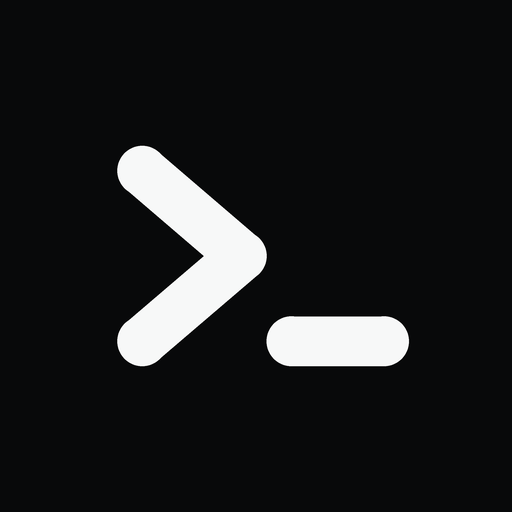
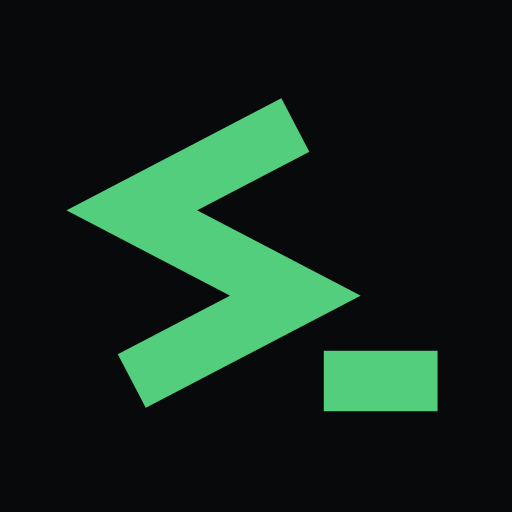
Play assets carry Solid Wedge, and the listing doc stops calling them blocked
agents-tracker-kb4q: docs/ops/play-assets held the retired chevron placeholder
while the launcher shipped Solid Wedge (72c844e) - the store listing and the
installed app would have shown two different marks. Both upload assets are now
byte-identical to the approved renders in docs/design/store-assets/. The
store-listing.md asset table said all three graphics were missing; the icon
and feature graphic are done, the emulator screenshot set exists, and the
paired-app screenshots stay tracked as agents-tracker-h4yg.

Claude-Session: https://claude.ai/code/session_015inSWCciRJgRG3nB7pwKRE

Changed region(s): [[0.125, 0.1875, 0.875, 0.8125]]

diff --git a/docs/legal/store-listing.md b/docs/legal/store-listing.md
@@ -67,16 +67,16 @@ up in the history.
 - Website: https://github.com/Nathandela/swarm
 - Privacy policy: https://github.com/Nathandela/swarm/blob/main/docs/legal/privacy-policy.md
 
-## Graphics still needed — NOT written, and blocking
+## Graphics — all present
 
-Play requires all of these before a listing can be saved. None exists yet.
+Play requires all of these before a listing can be saved.
 
 | Asset | Spec | Status |
 |---|---|---|
-| App icon | 512 x 512 PNG, 32-bit | **Blocked on the icon decision** — six candidates in `docs/design/icon-candidates/`, none chosen |
-| Feature graphic | 1024 x 500 PNG or JPEG | Not made. Can be generated from the chosen icon on the product ground |
-| Phone screenshots | 2 to 8, min 320 px, 16:9 or 9:16 | Not taken. Needs the app on a device or emulator |
+| App icon | 512 x 512 PNG, 32-bit | Done — Solid Wedge (the owner's chosen mark, commit 72c844e), `docs/ops/play-assets/play-store-icon-512.png` |
+| Feature graphic | 1024 x 500 PNG or JPEG | Done — Solid Wedge on the product ground, `docs/ops/play-assets/play-feature-graphic-1024x500.png` |
+| Phone screenshots | 2 to 8, min 320 px, 16:9 or 9:16 | Emulator set exists (`docs/design/store-assets/screenshots/`: pairing, scanner, first run, plus 7in/10in tablet). Paired-app screenshots (session list, machines, activity) tracked as agents-tracker-h4yg |
 
-The screenshots are worth taking by hand on the real handset rather than generating: the pairing
-screen and the session list are the two that say what this app is, and a screenshot of an empty
-inbox says nothing.
+The paired-app screenshots are worth taking by hand on the real handset rather than generating:
+the pairing screen and the session list are the two that say what this app is, and a screenshot
+of an empty inbox says nothing.
